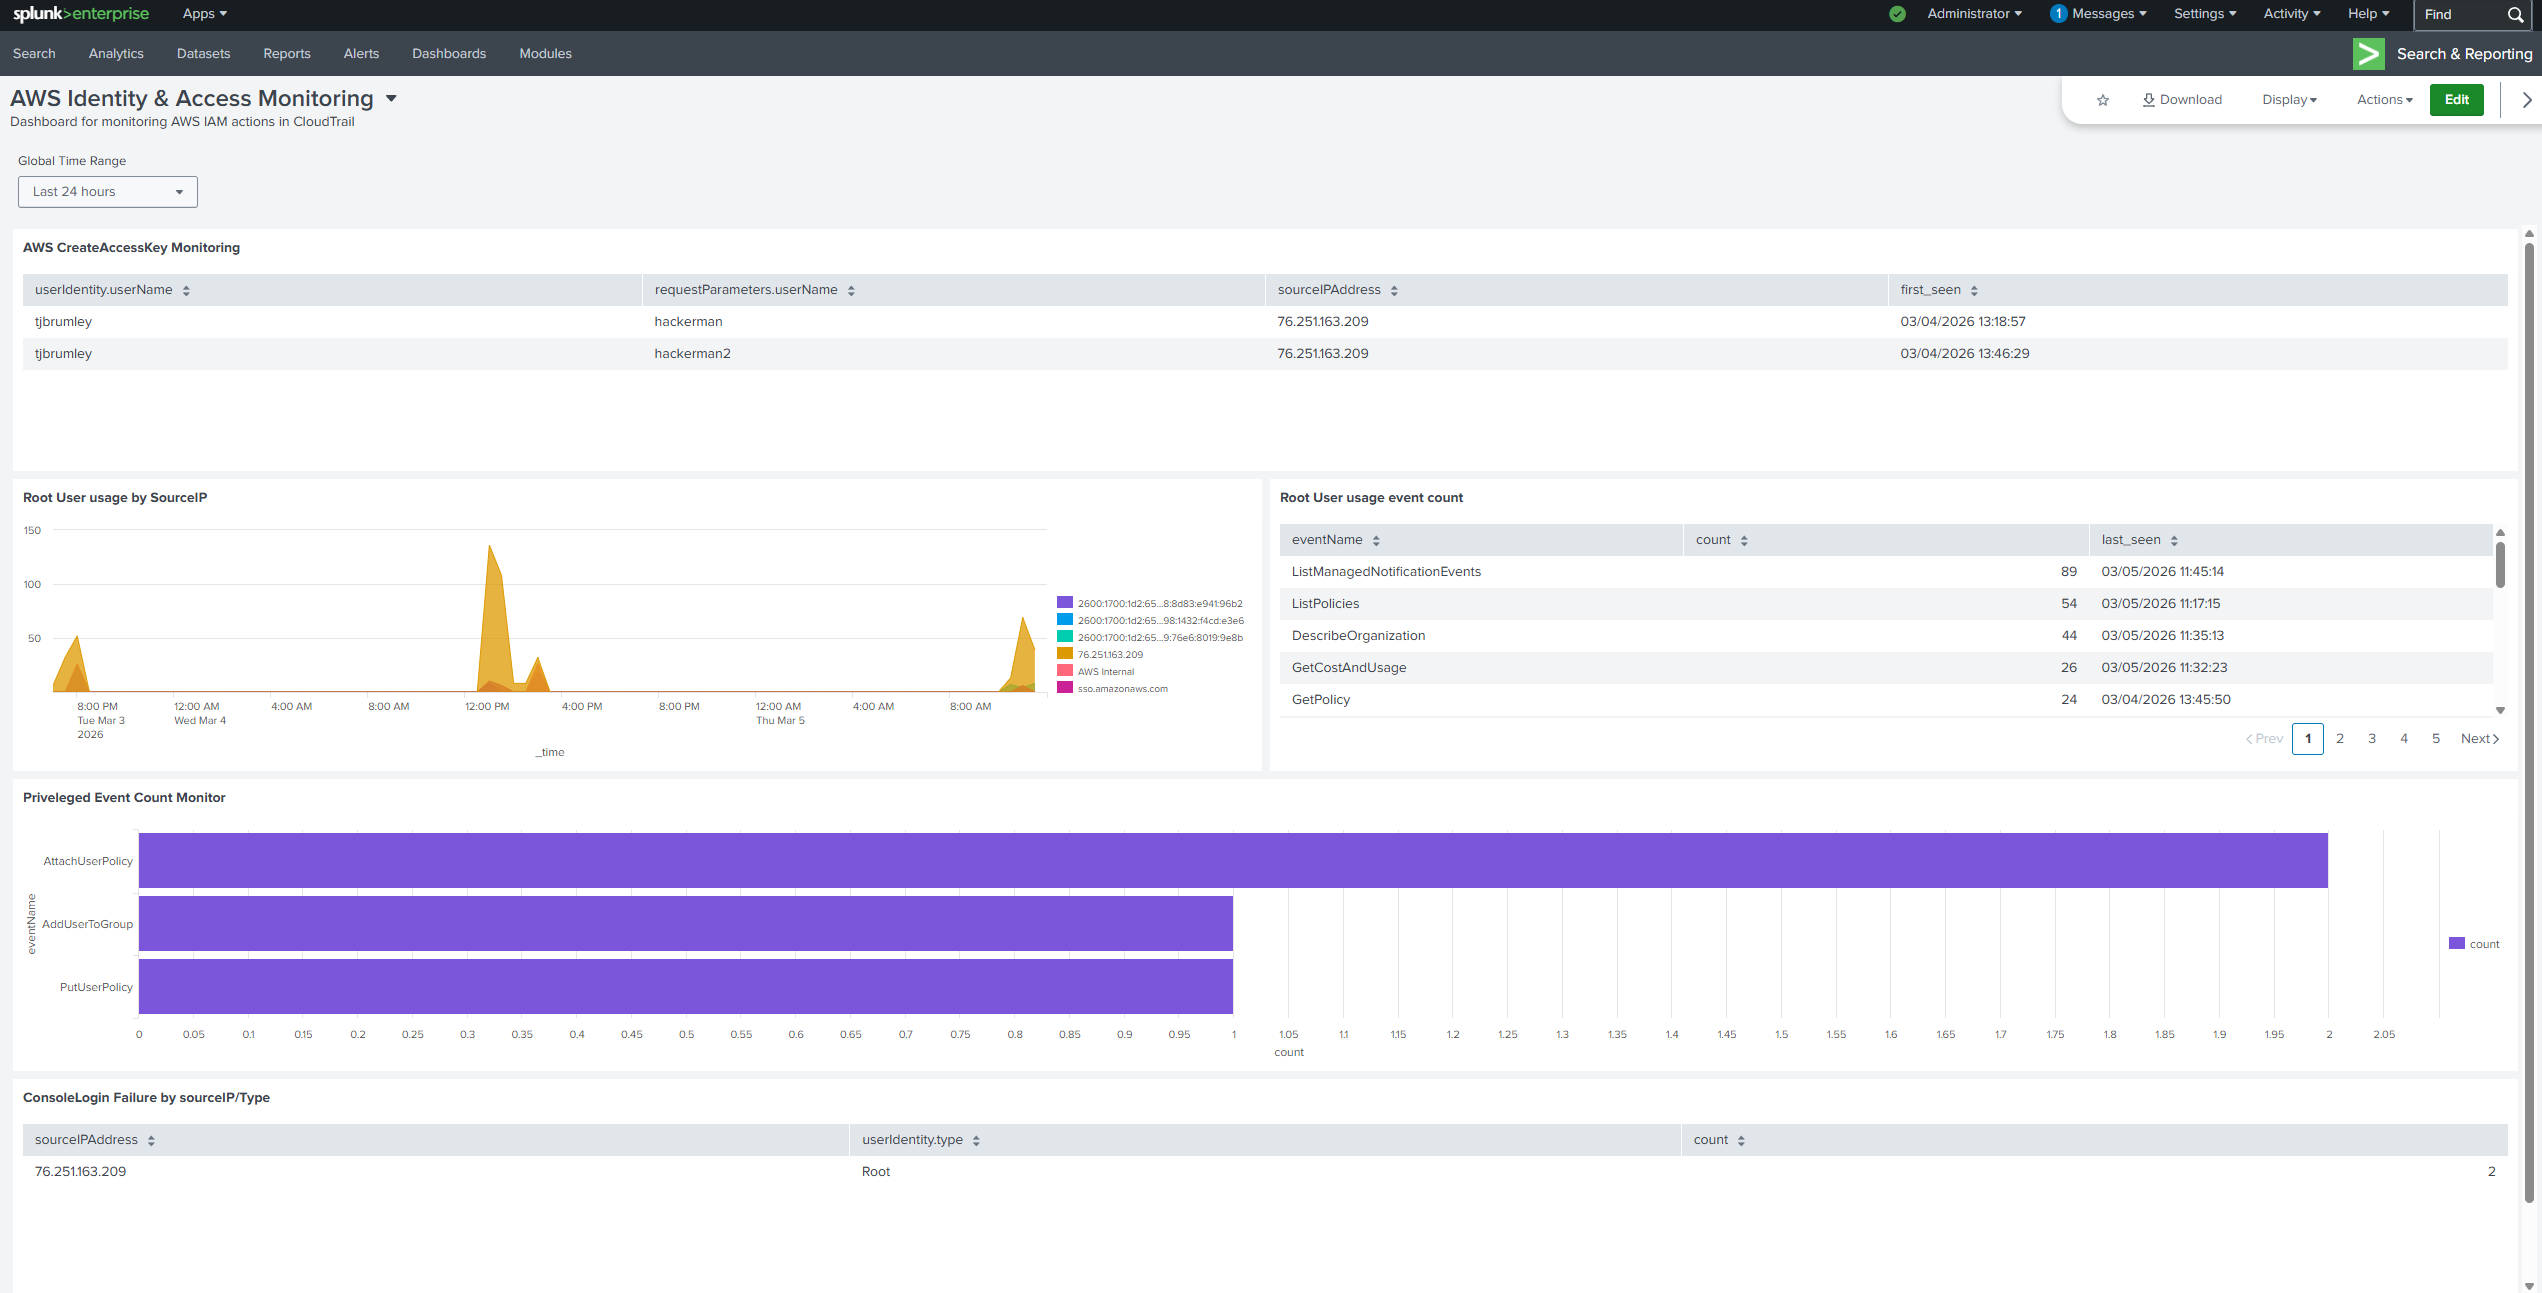
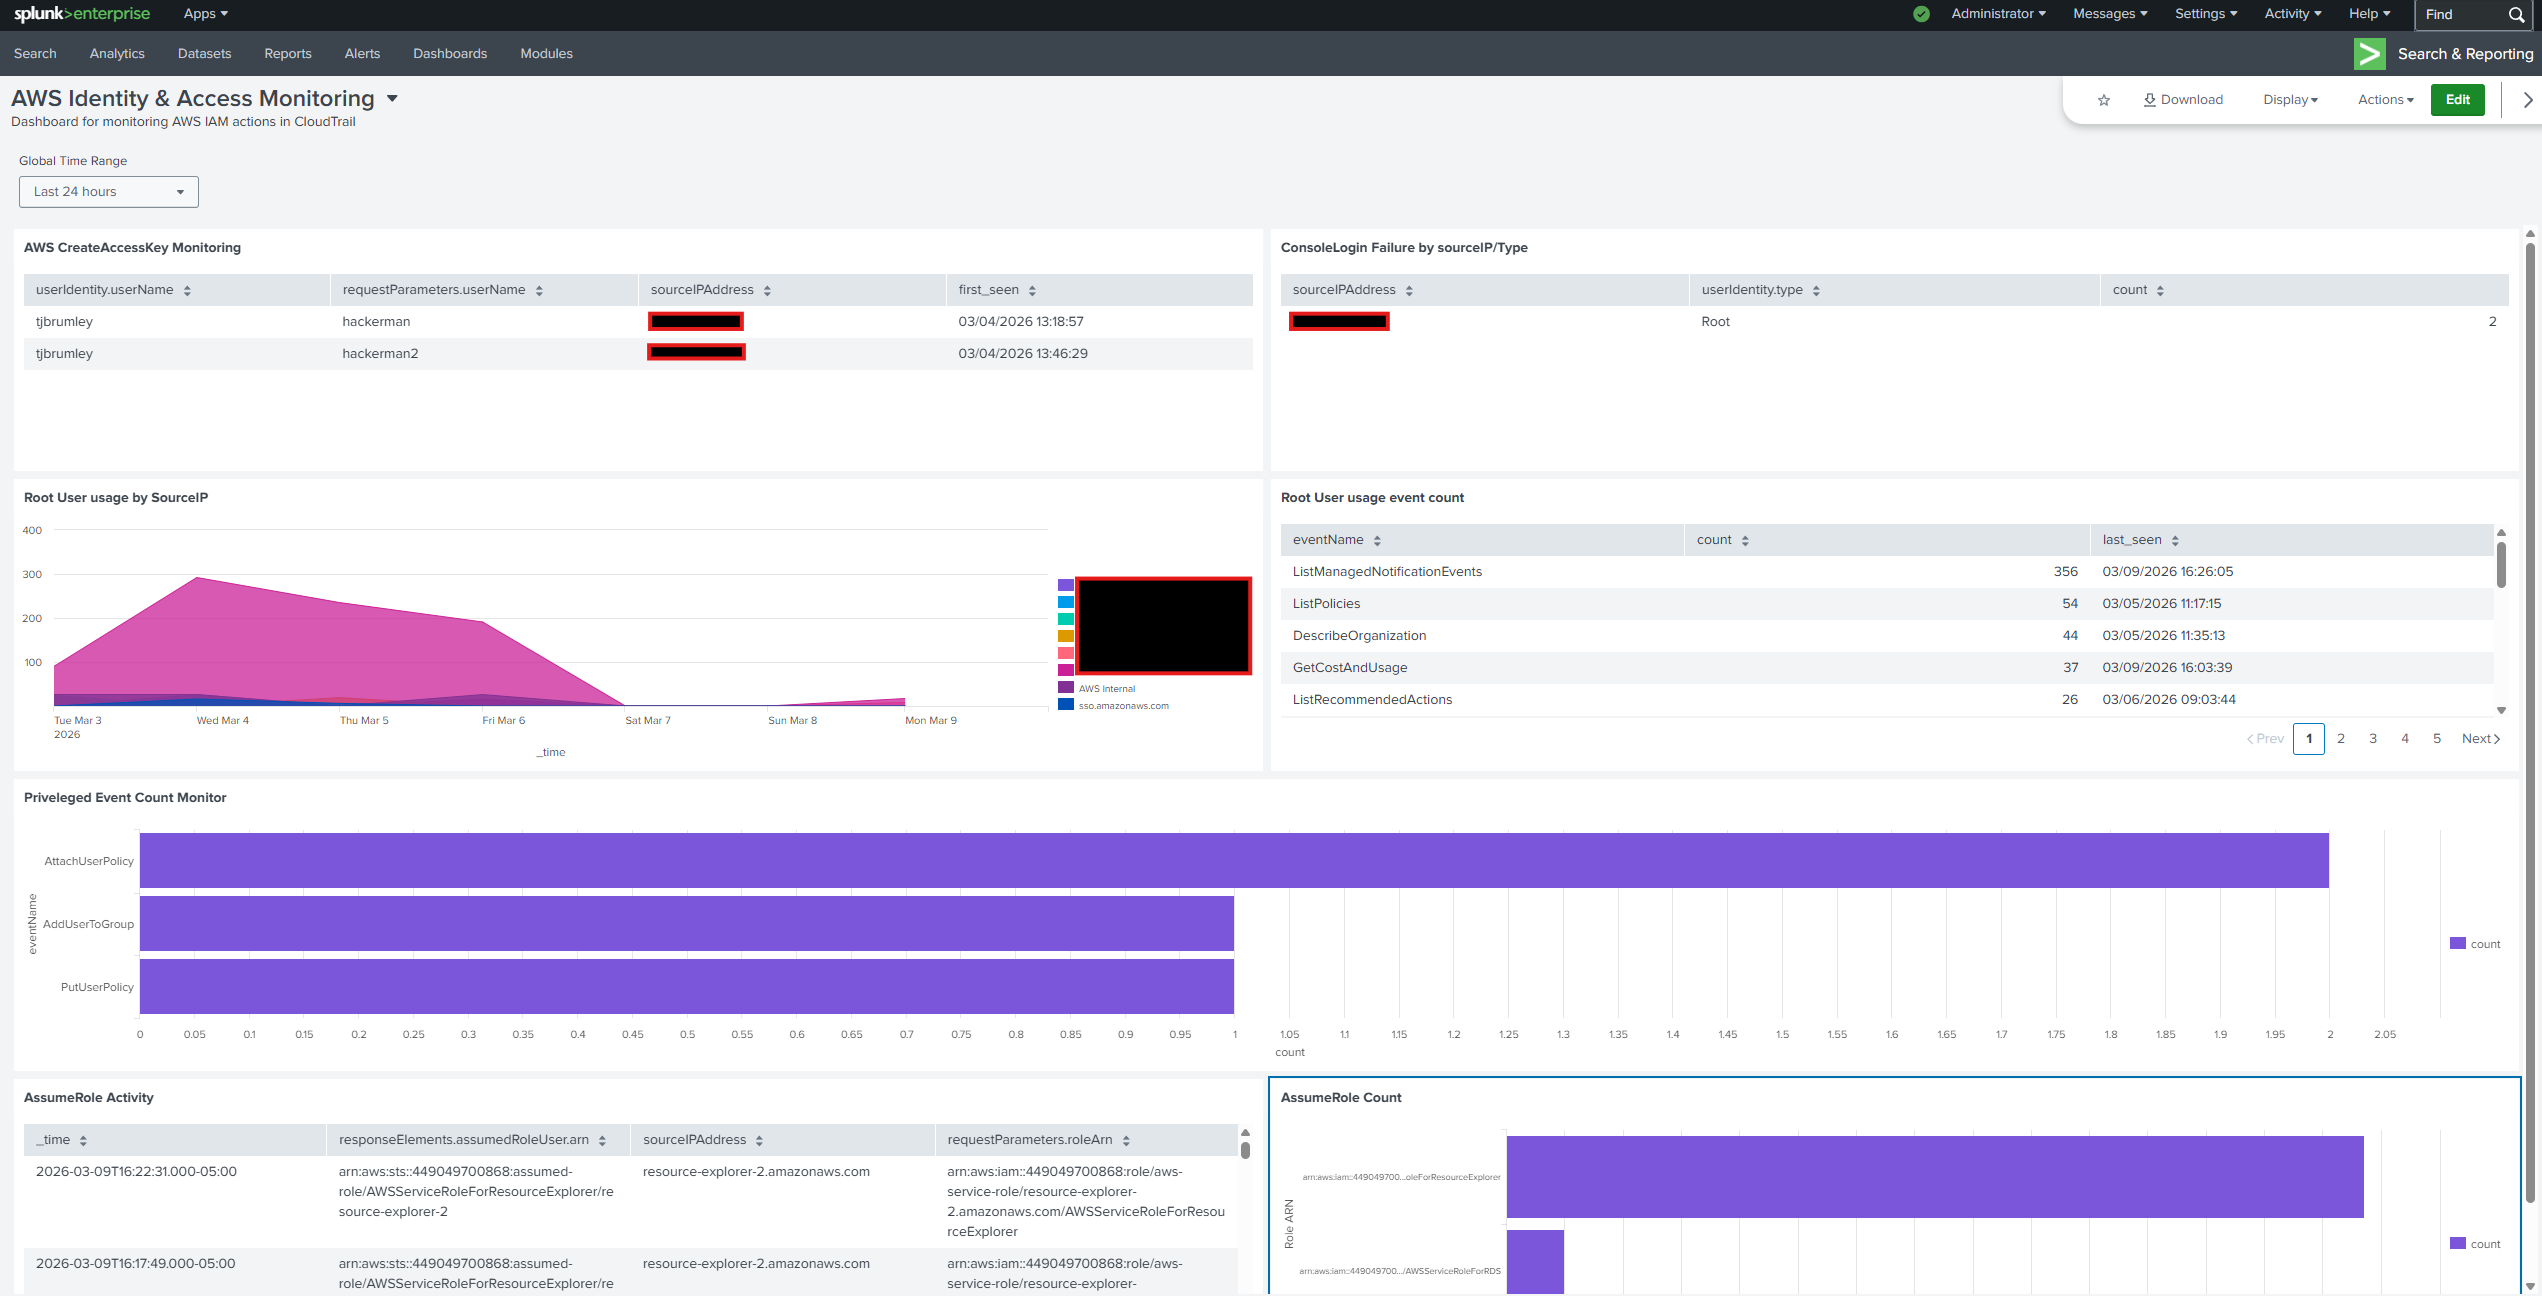
finalizing Splunk siem project with final detection, mitre mapping, diagrams and updated Readme

diff --git a/README.md b/README.md
@@ -3,16 +3,16 @@ AWS CloudTrail + Splunk (SQS-Based S3 Ingestion)
 
 ## Overview
 
-This project simulates a cloud security monitoring pipeline using AWS CloudTrail logs ingested into Splunk via an SQS-based S3 architecture.  
+This project simulates a cloud security monitoring pipeline using AWS CloudTrail logs ingested into Splunk through an SQS-based S3 architecture.
 
-The goal is to design and implement practical cloud detection logic focused on IAM abuse, privilege escalation, and suspicious activity in AWS environments.
+The objective is to design and implement practical cloud detection logic focused on IAM abuse, privilege escalation, and suspicious activity within AWS environments.
 
-This lab models a real-world security engineering workflow:
-- Log ingestion
-- Index design
+This lab models a real-world security engineering workflow including:
+
+- Log ingestion and indexing
 - SPL-based detection engineering
-- Alert logic development
-- Investigation workflow documentation
+- Alert and dashboard creation
+- Security investigation workflows
 
 ---
 
@@ -36,10 +36,12 @@ CloudTrail → S3 → SQS → Splunk → Detection Logic
   - Captures failed ingestion events
   - Prevents silent data loss
 
-- **Splunk Enterprise (60-Day Trial)**
+- **Splunk Enterprise (Trial)**
   - SQS-based S3 input configured
   - Dedicated `cloudtrail` index
   - Sourcetype: `aws:cloudtrail`
+
+![Architecture Diagram](diagrams/AWS_Splunk_diagram.png)
 
 ---
 
@@ -59,10 +61,46 @@ index=cloudtrail | stats count by eventSource
 
 ---
 
-## Search Queries & Detections
+## Search & Detections
 
 - `iam_access_key_creation.spl`: Used to create Alert and Dashboard item for tracking events on CreateAccessKey
-- `iam_root_user_actions_count.spl`: Used to create table to give count of all actions from root user and time of most recent occurence of event
+- `iam_root_user_actions_count.spl`: Used to create table to give count of all actions from root user and time of most recent occurrence of event
 - `iam_root_user_usage_sourceip.spl`: Used to create area chart to show usage of root user by sourceIP to check for spikes and unknown IP addresses
-- `iam_consolelogin_failure_count.spl`: Used to create table tracking Failed Login attempts by sourceIP and user type
-- `iam_priveleged_event_monitor.spl`: Used to track specific high priveleged events by count
+- `iam_consolelogin_failure_count.spl`: Used to create table tracking failed login attempts by sourceIP and user type
+- `iam_privileged_event_monitor.spl`: Used to track specific high privileged events by count
+- `iam_assume_role_activity.spl`: Used to create table of AssumeRole activity by user/source/role
+- `iam_assume_role_count.spl`: Used to track count of how many times a role has been assumed
+
+See the MITRE ATT&CK technique mappings for these detections here:
+
+[`detections/mitre_mapping.md`](detections/mitre_mapping.md)
+
+---
+
+## Sample Dashboard
+
+Splunk dashboard create through this project using the above searches and detections
+
+![Splunk Dashboard](images/dashboard.png)
+
+---
+
+## Technologies Used & Lessons Learned
+
+Here are the different technologies used in this project:
+
+- AWS CloudTrail
+- Amazon S3
+- Amazon SQS
+- AWS CLI
+- Splunk Enterprise (trial)
+- Splunk Processing Language
+- draw.io
+
+Lessons Learned:
+
+- How CloudTrail logs represent AWS API activity
+- Event-driven log ingestion pipelines using S3 and SQS
+- Writing effective SPL queries to detect suspicious behavior
+- Mapping detections to MITRE ATT&CK techniques
+- Structuring detection engineering workflows similar to real production environments

diff --git a/detections/mitre_mapping.md b/detections/mitre_mapping.md
@@ -1,0 +1,13 @@
+# MITRE ATT&CK Mapping
+
+This project maps AWS CloudTrail detections to MITRE ATT&CK techniques to align cloud monitoring activity with known adversary behaviors.
+
+| Detection File | Detection Purpose | MITRE ATT&CK Technique | Rationale |
+|---|---|---|---|
+| iam_access_key_creation.spl | Detect creation of new IAM access keys | T1078 - Valid Accounts | New access keys can be used to establish persistent credential-based access |
+| iam_root_user_actions_count.spl | Track actions performed by the AWS root account | T1078 - Valid Accounts | Root account usage represents highly privileged account activity |
+| iam_root_user_usage_sourceip.spl | Monitor root account usage by source IP | T1078 - Valid Accounts | Root activity from unexpected IPs may indicate credential misuse |
+| iam_consolelogin_failure_count.spl | Track failed AWS console login attempts | T1110 - Brute Force | Repeated failed login attempts may indicate password guessing or credential attacks |
+| iam_priveleged_event_monitor.spl | Monitor high-privilege IAM modification events | T1098 - Account Manipulation | Policy attachment or group membership changes may indicate privilege escalation or persistence |
+| iam_assume_role_activity.spl | Track detailed AssumeRole activity | T1078 - Valid Accounts | IAM role assumption may indicate privileged access or lateral movement |
+| iam_assume_role_count.spl | Monitor role assumption frequency by role | T1078 - Valid Accounts | Unusual role usage volume may indicate abuse of trusted role-based access |
